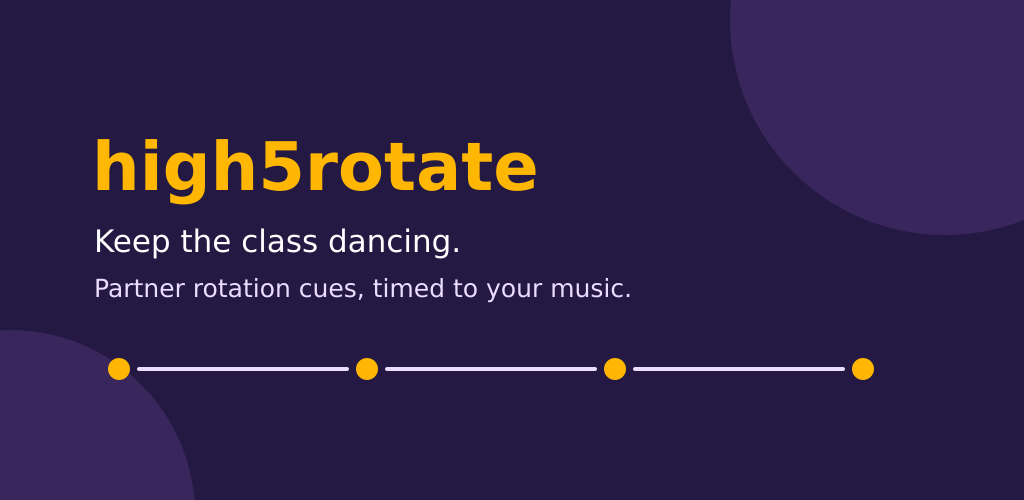
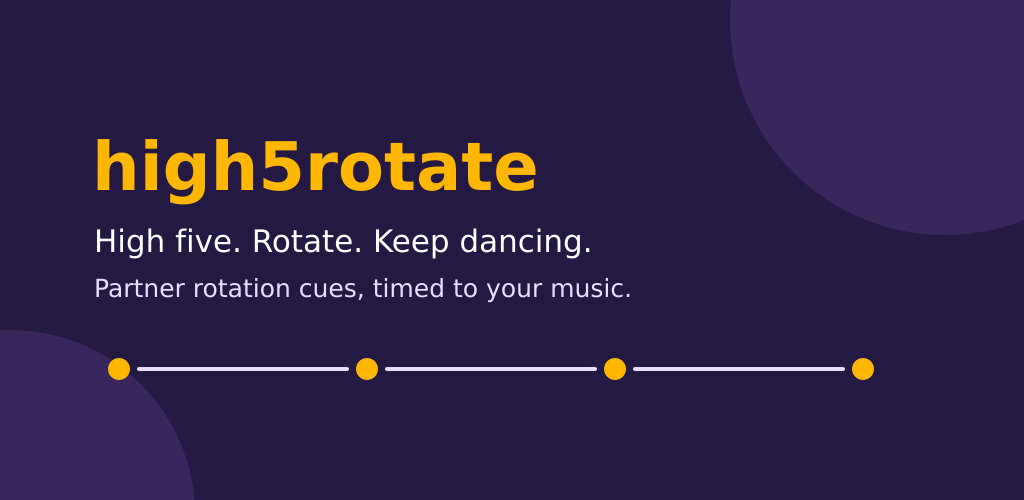
Use a high-five hand with a counter-clockwise rotation arrow

Changed region(s): [[0.0938, 0.45, 0.5938, 0.54]]

diff --git a/docs/index.html b/docs/index.html
@@ -10,7 +10,7 @@
 </style>
 <main>
   <h1>high5rotate</h1>
-  <p>Keep the class dancing.</p>
+  <p>High five. Rotate. Keep dancing.</p>
   <p>An Android partner rotation timer for dance teachers. Play a song in your usual music app, hear cues to switch partners, and pause near the song's end.</p>
   <p>Choose your timings, a built-in sound or your own audio file. No high5rotate account, ads, or analytics.</p>
   <p>The app is being prepared for testing and Google Play publication.</p>

diff --git a/scripts/generate-store-assets.py b/scripts/generate-store-assets.py
@@ -34,7 +34,7 @@ feature = '''<svg xmlns="http://www.w3.org/2000/svg" width="1024" height="500" v
 <circle cx="10" cy="515" r="185" fill="#39265C"/>
 <g font-family="DejaVu Sans, sans-serif">
 <text x="92" y="190" fill="#FFB703" font-size="67" font-weight="bold">high5rotate</text>
-<text x="94" y="252" fill="#FFFFFF" font-size="31">Keep the class dancing.</text>
+<text x="94" y="252" fill="#FFFFFF" font-size="31">High five. Rotate. Keep dancing.</text>
 <text x="94" y="297" fill="#EBDDFF" font-size="25">Partner rotation cues, timed to your music.</text>
 </g>
 <g fill="#FFB703">

diff --git a/README.md b/README.md
@@ -2,6 +2,8 @@
 
 ![high5rotate icon](store/assets/icon.png)
 
+Give your partner a high five, then rotate. That's the idea behind the name and the raised-hand icon with its counter-clockwise rotation arrow.
+
 high5rotate is an Android-only teaching aid for West Coast Swing classes. Arm it once for the session, then play individual songs in YouTube Music, Spotify, or another Android media-session player.
 
 While a song plays, the app:
